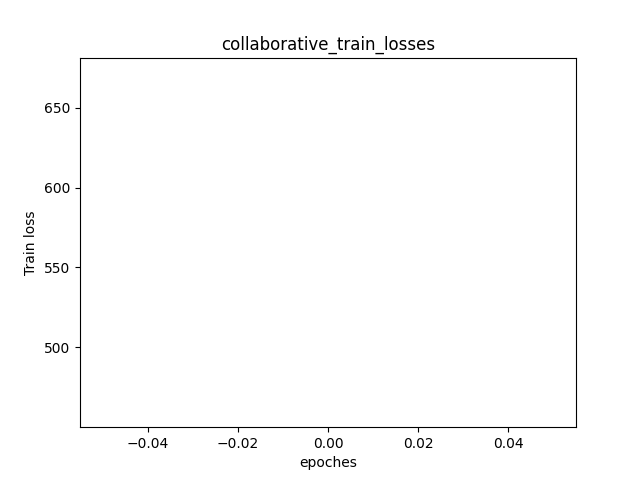
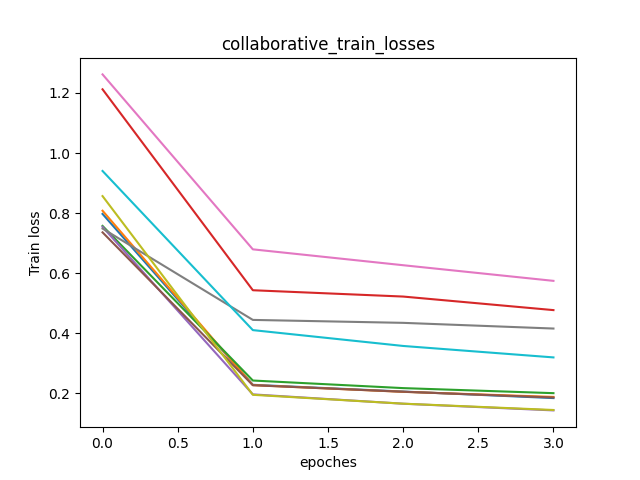
update

diff --git a/option.py b/option.py
@@ -28,13 +28,13 @@ def args_parser():
     # Collaborative_private_model_femnist_balanced
     parser.add_argument('--new_collaborative_training',type=bool,default=False,help='whether train model from initial condition')
     parser.add_argument('--Collaborativeurl',type=str,default='Src\CollaborativeModel',help='collaborative model location')
-    parser.add_argument('--collaborative_epoch',type=int,default=1,help='collaborative_epoch for train on public mnist')
+    parser.add_argument('--collaborative_epoch',type=int,default=4,help='collaborative_epoch for train on public mnist')
 
     # Collaborative_step
     parser.add_argument('--Communicationepoch',type=int,default=10,help='Collaobrative epoch in Step3')
 
     # collaborative_private_model_femnist_balanced
-    parser.add_argument('--Communication_private_epoch',type=int,default=2 ,help='Local private training during colaboratiive time')
+    parser.add_argument('--Communication_private_epoch',type=int,default=8 ,help='Local private training during colaboratiive time')
 
     args = parser.parse_args()
 

diff --git a/collaborative_private_model_femnist_balanced.py b/collaborative_private_model_femnist_balanced.py
@@ -5,20 +5,8 @@ import torch
 from torch.utils.data import DataLoader,Dataset
 from torch import nn
 import matplotlib.pyplot as plt
+from utils import get_model_list
 
-
-
-def get_model_list(url,modelsindex,models):
-    model_list = []
-    model_type_list = []
-    filePath = url
-    for root, dirs, files in os.walk(filePath, topdown=False):
-        for name in files:
-            model_type_list.append(int(name[name.find('Type')+4]))
-            net = models[modelsindex[int(name[name.find('Type')+4])]]()
-            net.load_state_dict(torch.load(os.path.join(root, name)))
-            model_list.append(net)
-    return model_list,model_type_list
 
 class DatasetSplit(Dataset):
     """

diff --git a/README.md b/README.md
@@ -109,6 +109,8 @@ end
 | train_models  | device,models,modelsindex,train_dataset,lr,optimizer,epochs |NULL |用于训练私有数据集在MNIST数据集上|
 
 
+由于这里batch size设置小了，所以有点毛病
+
 ![pretrained_public_mnist_initial_result](Src/Figure/private_model_public_dataset_initial_train_losses.png)
 ### pretrained_public_mnist_continue.py
 用于继续训练各个locla的私有模型在MNIST数据集上，直到模型收敛
